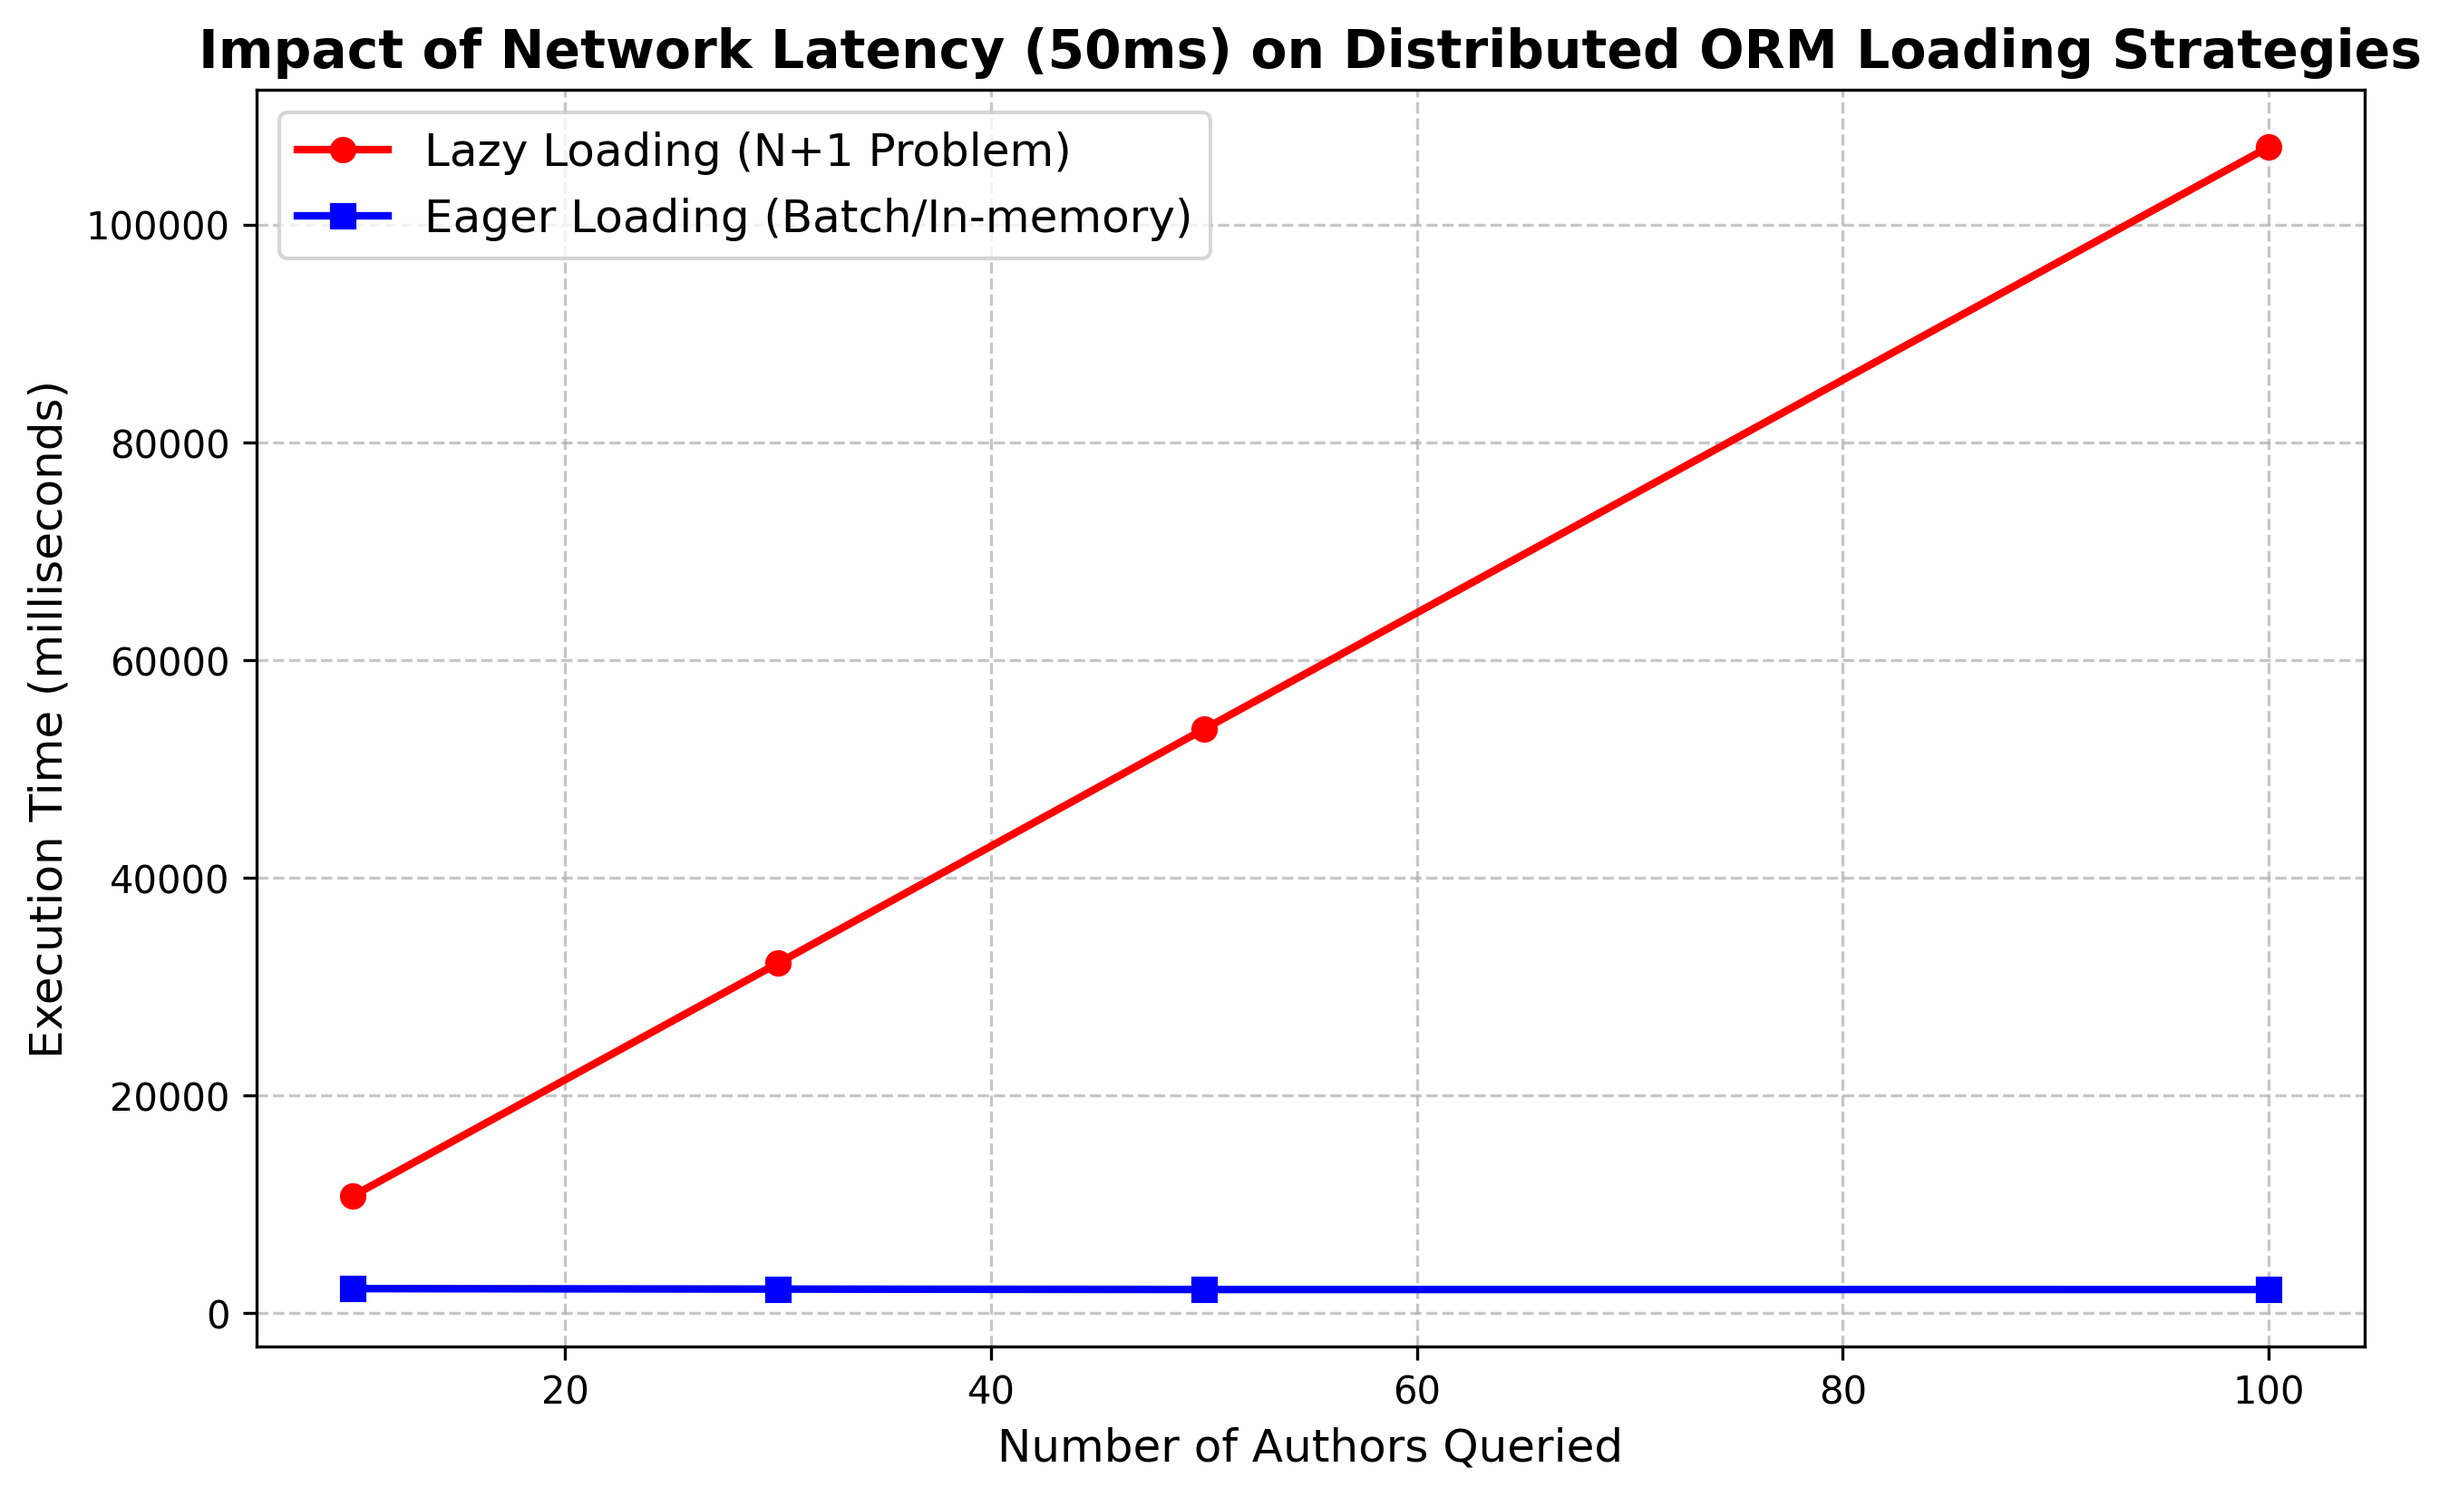
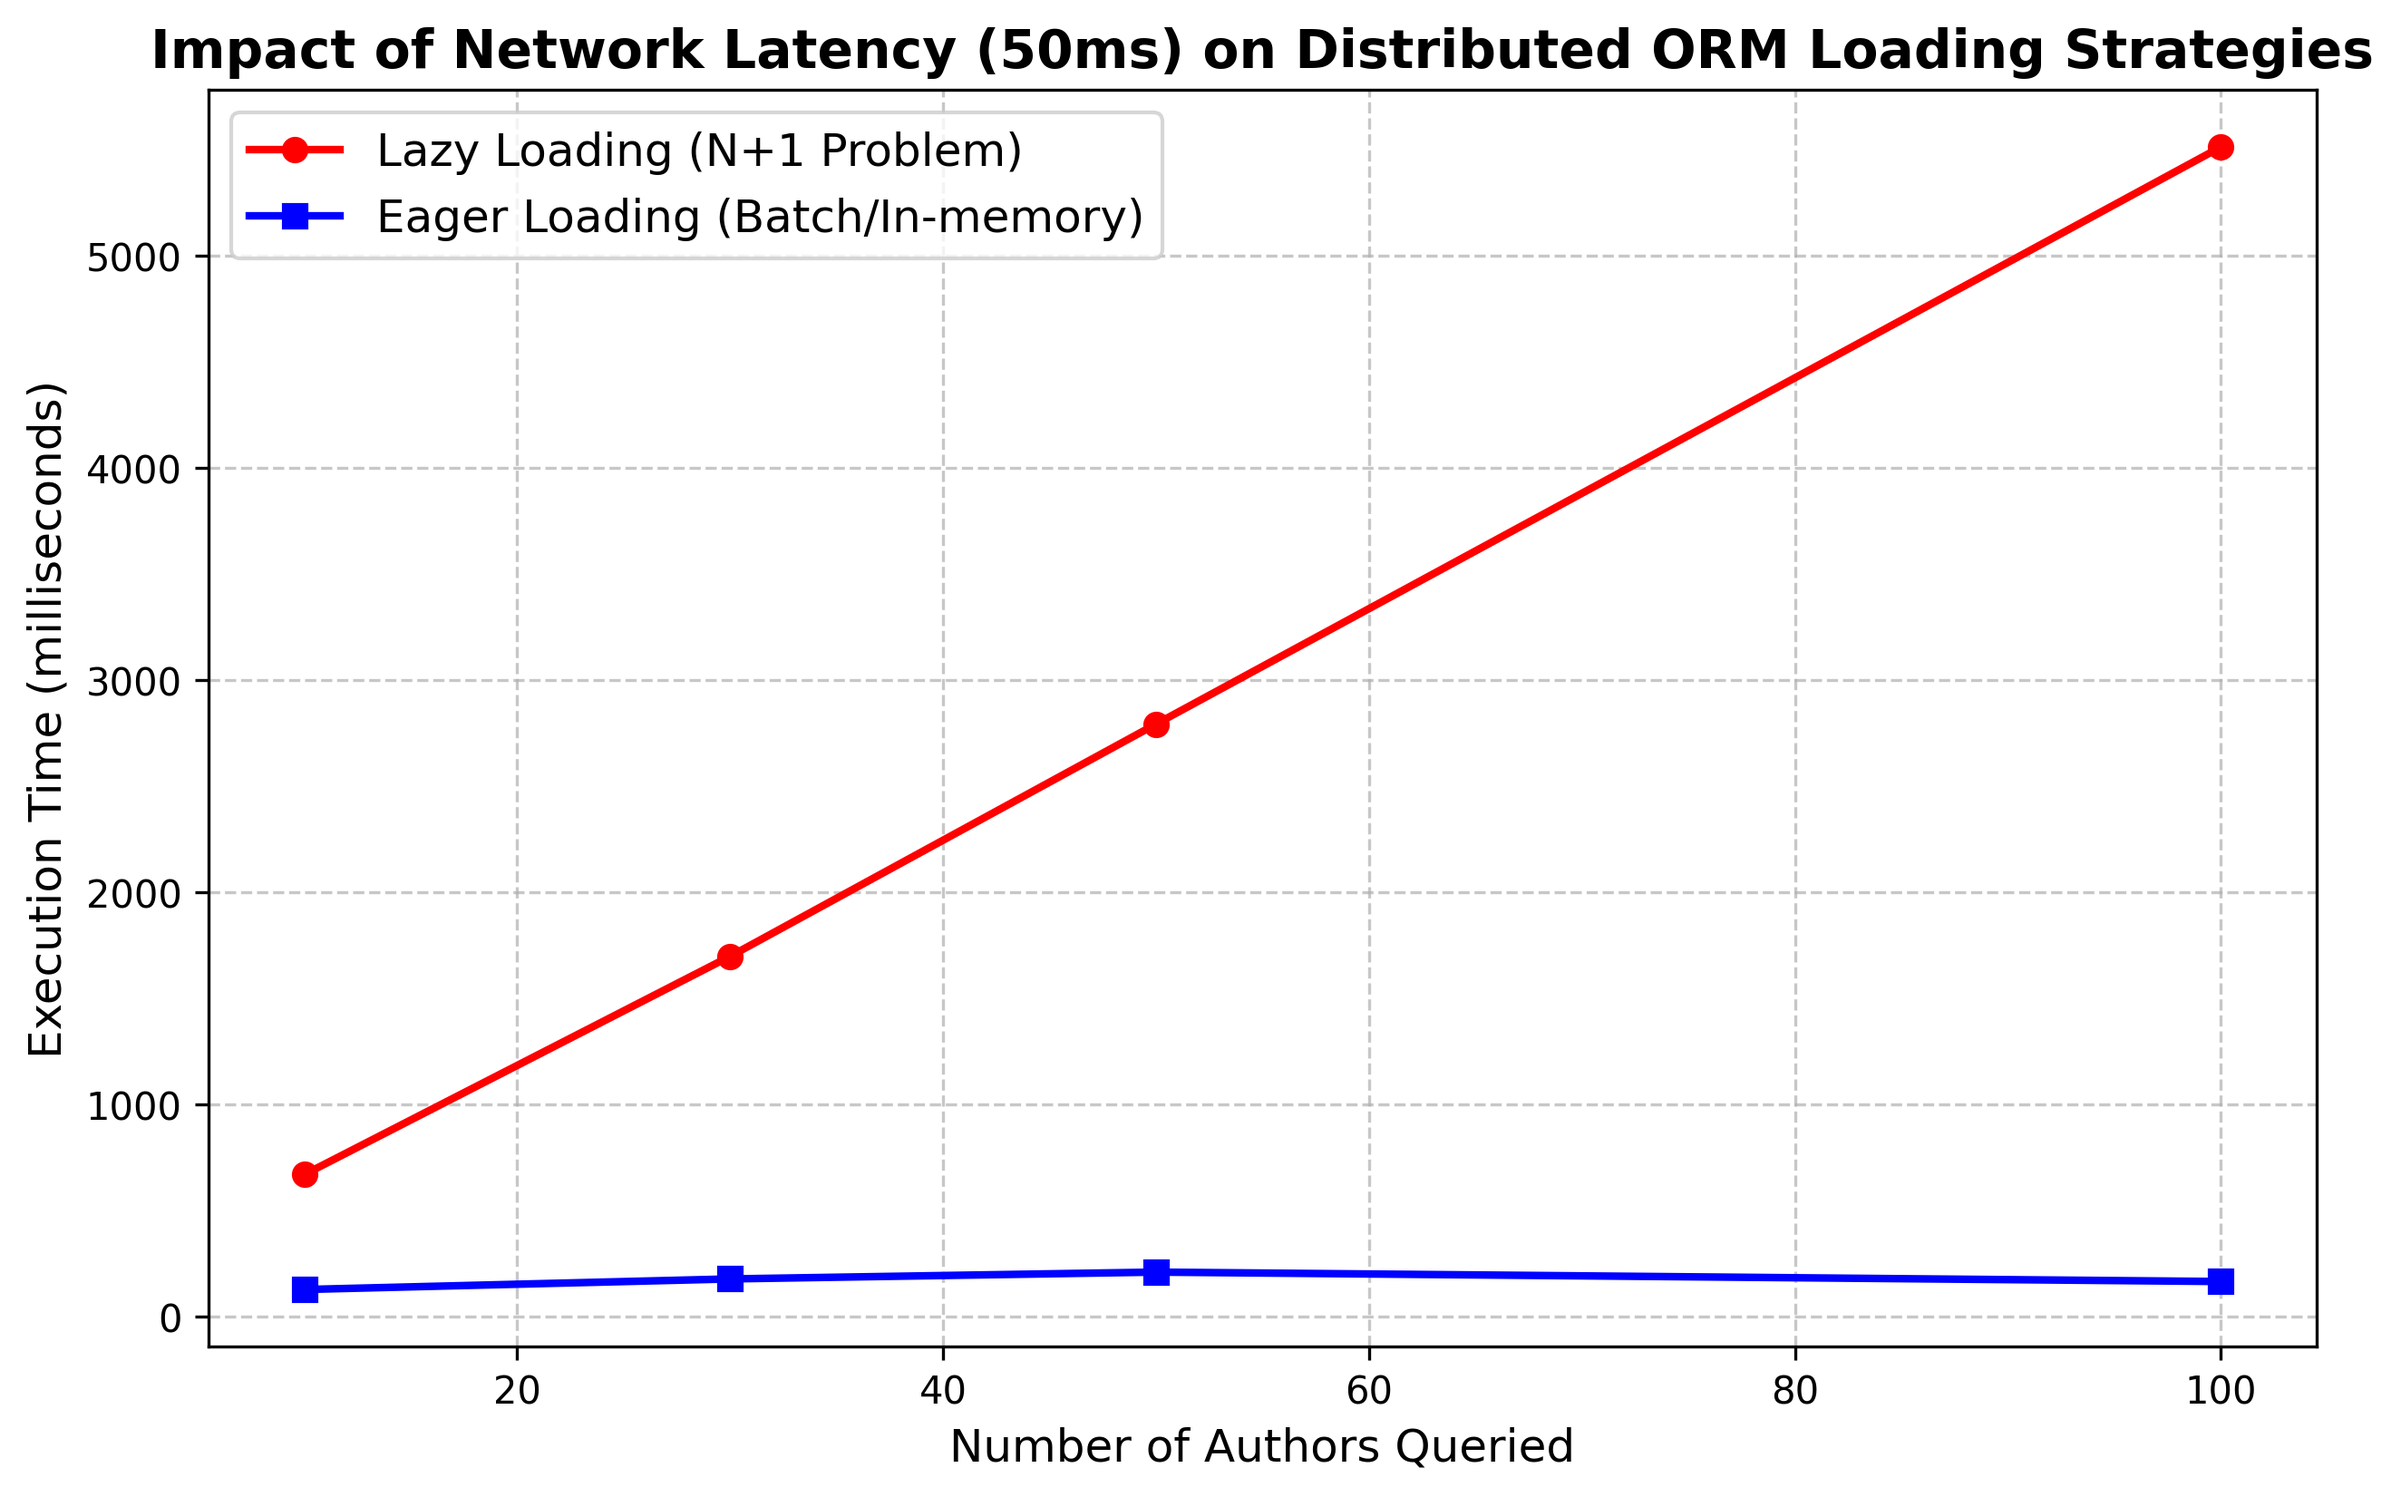
update

diff --git a/app.py b/app.py
@@ -1,0 +1,104 @@
+from flask import Flask, jsonify, request
+import time
+from sqlalchemy.orm import selectinload
+from sqlalchemy.exc import OperationalError  # <-- THÊM THƯ VIỆN BẮT LỖI MẠNG/DATABASE
+
+# Import cấu hình và models từ 2 file vừa tạo
+from database import engine, SessionLocal, Base, reset_network_calls, get_network_calls
+from models import Author, Book
+
+app = Flask(__name__)
+
+# Tự động tạo bảng vào SQL Server nếu chưa có
+Base.metadata.create_all(bind=engine)
+
+@app.route('/test/lazy', methods=['GET'])
+def lazy_loading():
+    reset_network_calls() # Làm mới bộ đếm mạng
+    limit = int(request.args.get('limit', 10))
+    
+    session = SessionLocal()
+    start_time = time.time()
+    
+    try:
+        # Bị lỗi N+1 tại đây do cơ chế mặc định
+        authors = session.query(Author).limit(limit).all()
+        
+        result_data = []
+        for author in authors:
+            books_data = [{"BookID": b.BookID, "Title": b.Title} for b in author.books]
+            result_data.append({
+                "AuthorID": author.AuthorID,
+                "Name": author.Name,
+                "books": books_data
+            })
+            
+        end_time = time.time()
+        
+        return jsonify({
+            "strategy": "Lazy Loading (N+1)",
+            "authors_count": len(authors),
+            "network_calls": get_network_calls(),
+            "execution_time_ms": round((end_time - start_time) * 1000, 2),
+            "data": result_data
+        })
+        
+    except OperationalError:
+        # BẮT LỖI KHI SITE B (SQL SERVER) BỊ SẬP HOẶC MẤT MẠNG
+        return jsonify({
+            "status": "error",
+            "message": "Canh bao: khong the ket noi den Data Node (Site B). He thong dang tam thoi gian doan.",
+            "error_code": "NODE_B_OFFLINE"
+        }), 503
+        
+    finally:
+        # Đảm bảo luôn đóng kết nối an toàn dù thành công hay sập mạng
+        session.close()
+
+@app.route('/test/eager', methods=['GET'])
+def eager_loading():
+    reset_network_calls() # Làm mới bộ đếm mạng
+    limit = int(request.args.get('limit', 10))
+    
+    session = SessionLocal()
+    start_time = time.time()
+    
+    try:
+        # Giải quyết bằng selectinload()
+        authors = session.query(Author)\
+                         .options(selectinload(Author.books))\
+                         .limit(limit).all()
+        
+        result_data = []
+        for author in authors:
+            books_data = [{"BookID": b.BookID, "Title": b.Title} for b in author.books]
+            result_data.append({
+                "AuthorID": author.AuthorID,
+                "Name": author.Name,
+                "books": books_data
+            })
+            
+        end_time = time.time()
+        
+        return jsonify({
+            "strategy": "Eager Loading (Select IN)",
+            "authors_count": len(authors),
+            "network_calls": get_network_calls(),
+            "execution_time_ms": round((end_time - start_time) * 1000, 2),
+            "data": result_data
+        })
+        
+    except OperationalError:
+        # BẮT LỖI KHI SITE B (SQL SERVER) BỊ SẬP HOẶC MẤT MẠNG
+        return jsonify({
+            "status": "error",
+            "message": "Canh bao: khong the ket noi den Data Node (Site B). He thong dang tam thoi gian doan.",
+            "error_code": "NODE_B_OFFLINE"
+        }), 503
+        
+    finally:
+        session.close()
+
+if __name__ == '__main__':
+    print(" Server API đang chạy tại http://localhost:5001")
+    app.run(port=5001, debug=True)

diff --git a/test_runner.py b/test_runner.py
@@ -1,5 +1,6 @@
 import requests
 import matplotlib.pyplot as plt
+import sys
 
 # Địa chỉ của Site A (Author Service)
 SITE_A_URL = "http://localhost:5001"
@@ -15,14 +16,35 @@ print("Bắt đầu chạy kịch bản Test...\n" + "-"*40)
 for limit in author_limits:
     print(f" Đang test với {limit} tác giả...")
     
+    # ---------------------------------------------------------
     # 1. Test Lazy Loading
-    res_lazy = requests.get(f"{SITE_A_URL}/test/lazy?limit={limit}").json()
+    # ---------------------------------------------------------
+    response_lazy = requests.get(f"{SITE_A_URL}/test/lazy?limit={limit}")
+    
+    # KIỂM TRA LỖI TRƯỚC KHI LẤY DỮ LIỆU
+    if response_lazy.status_code != 200:
+        error_info = response_lazy.json()
+        print(f"\n[LỖI MẠNG] {error_info.get('message', 'Mất kết nối!')}")
+        print(" TẠM DỪNG BÀI TEST DO MẤT KẾT NỐI NODE B (SQL SERVER).")
+        sys.exit() # Dừng hẳn script, không vẽ biểu đồ nữa
+        
+    res_lazy = response_lazy.json()
     lazy_time = res_lazy['execution_time_ms']
     lazy_times.append(lazy_time)
     print(f"   - Lazy Loading: {lazy_time} ms (Số lần gọi mạng: {res_lazy['network_calls']})")
     
+    # ---------------------------------------------------------
     # 2. Test Eager Loading
-    res_eager = requests.get(f"{SITE_A_URL}/test/eager?limit={limit}").json()
+    # ---------------------------------------------------------
+    response_eager = requests.get(f"{SITE_A_URL}/test/eager?limit={limit}")
+    
+    if response_eager.status_code != 200:
+        error_info = response_eager.json()
+        print(f"\n[LỖI MẠNG] {error_info.get('message', 'Mất kết nối!')}")
+        print(" TẠM DỪNG BÀI TEST DO MẤT KẾT NỐI NODE B (SQL SERVER).")
+        sys.exit()
+        
+    res_eager = response_eager.json()
     eager_time = res_eager['execution_time_ms']
     eager_times.append(eager_time)
     print(f"   - Eager Loading: {eager_time} ms (Số lần gọi mạng: {res_eager['network_calls']})")

diff --git a/TaoDL_LuuVaoSQL/import_data.py b/TaoDL_LuuVaoSQL/import_data.py
@@ -1,0 +1,42 @@
+import sys
+import os
+import json
+
+# Đường dẫn này sẽ trỏ từ 'TaoDL_LuuVaoSQL' ngược ra thư mục gốc
+sys.path.append(os.path.dirname(os.path.dirname(os.path.abspath(__file__))))
+
+from database import engine, SessionLocal, Base
+from models import Author, Book
+# Xóa sạch bảng cũ để làm mới hoàn toàn
+Base.metadata.drop_all(bind=engine)
+# Tạo lại bảng mới
+Base.metadata.create_all(bind=engine)
+
+def import_data_bulk():
+    session = SessionLocal()
+    print("Đang bắt đầu bơm dữ liệu siêu tốc...")
+    
+    try:
+        # Bơm tác giả
+        with open('authors.json', 'r', encoding='utf-8') as f:
+            authors_data = json.load(f)
+            # Chuyển đổi key nếu cần thiết
+            authors_list = [{"AuthorID": item['AuthorID'], "Name": item['Name'], "Region": item.get('Country', 'Unknown')} for item in authors_data]
+            session.bulk_insert_mappings(Author, authors_list)
+        
+        # Bơm sách
+        with open('books.json', 'r', encoding='utf-8') as f:
+            books_data = json.load(f)
+            books_list = [{"BookID": item['BookID'], "AuthorID": item['AuthorID'], "Title": item['Title']} for item in books_data]
+            session.bulk_insert_mappings(Book, books_list)
+            
+        session.commit()
+        print(" Xong! Toàn bộ dữ liệu đã nằm gọn trong SQL Server.")
+    except Exception as e:
+        session.rollback()
+        print(f" Lỗi rồi: {e}")
+    finally:
+        session.close()
+
+if __name__ == '__main__':
+    import_data_bulk()

diff --git a/database.py b/database.py
@@ -1,0 +1,25 @@
+import time
+from sqlalchemy import create_engine, event
+from sqlalchemy.orm import sessionmaker, declarative_base
+
+# 1. Cấu hình chuỗi kết nối 
+DB_URI = "mssql+pyodbc://DESKTOP-03TS7J6/Authors_Book?driver=ODBC+Driver+17+for+SQL+Server&trusted_connection=yes"
+engine = create_engine(DB_URI, echo=False)
+SessionLocal = sessionmaker(bind=engine)
+Base = declarative_base()
+
+# 2. Cấu hình mô phỏng mạng
+NETWORK_LATENCY = 0.05  # 50ms
+network_metrics = {"calls": 0}  # Dùng dictionary để dễ dàng thay đổi giá trị từ file khác
+
+def reset_network_calls():
+    network_metrics["calls"] = 0
+
+def get_network_calls():
+    return network_metrics["calls"]
+
+# Hook chặn mọi câu lệnh SQL để cộng dồn độ trễ
+@event.listens_for(engine, "before_cursor_execute")
+def before_cursor_execute(conn, cursor, statement, parameters, context, executemany):
+    network_metrics["calls"] += 1
+    time.sleep(NETWORK_LATENCY)

diff --git a/models.py b/models.py
@@ -1,0 +1,17 @@
+from sqlalchemy import Column, String, ForeignKey
+from sqlalchemy.orm import relationship
+from database import Base 
+
+class Author(Base):
+    __tablename__ = 'authors'
+    AuthorID = Column(String(50), primary_key=True)
+    Name = Column(String(100))
+    Region = Column(String(200))
+    books = relationship("Book", back_populates="author")
+
+class Book(Base):
+    __tablename__ = 'books'
+    BookID = Column(String(50), primary_key=True)
+    AuthorID = Column(String(50), ForeignKey('authors.AuthorID'))
+    Title = Column(String(200))
+    author = relationship("Author", back_populates="books")
